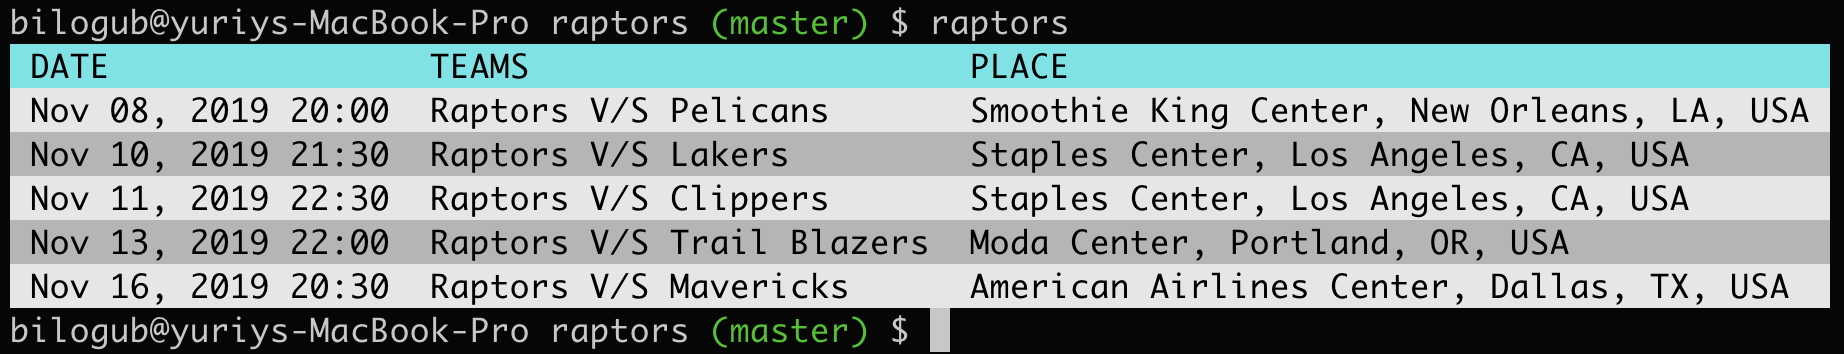
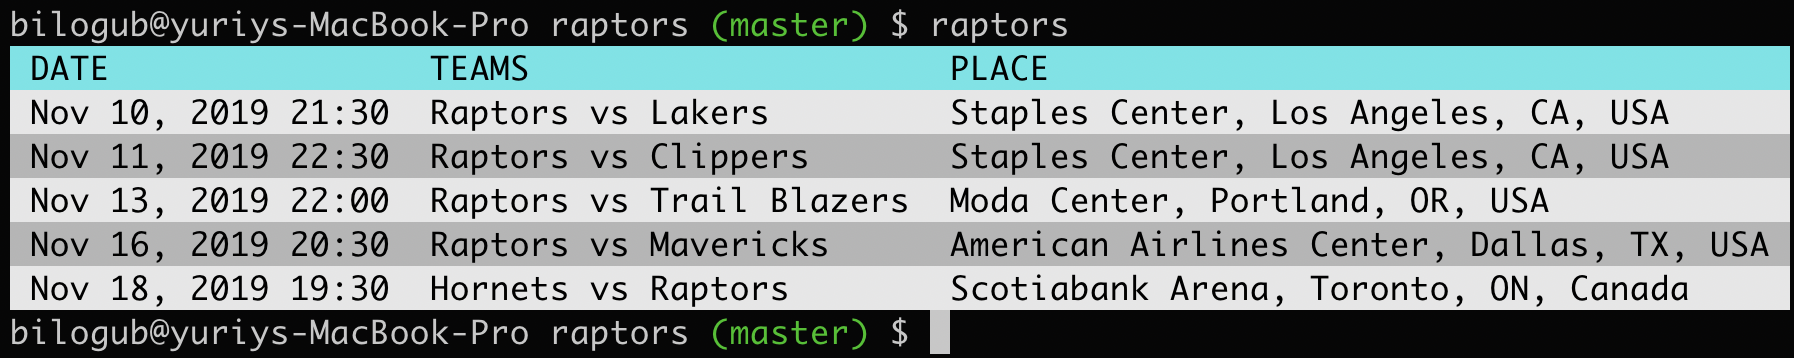
typos

Changed region(s): [[0.0, 0.0311, 0.9989, 0.9944]]

diff --git a/raptors.go b/raptors.go
@@ -73,7 +73,7 @@ func processResponse(body []byte) [][]interface{} {
 			}
 			starts := fmt.Sprintf("%s %s:%s",
 				startDate.Format("Nov 02, 2006"), startTime[0:2], startTime[2:4])
-			teams := fmt.Sprintf("%s V/S %s", hommies, playingWith)
+			teams := fmt.Sprintf("%s vs %s", hommies, playingWith)
 			place := fmt.Sprintf("%s, %s, %s, %s", game.Arena, game.City, game.State, game.Country)
 			output = append(output, []interface{}{starts, teams, place})
 		}

diff --git a/README.md b/README.md
@@ -8,6 +8,6 @@ Shows next 5 games for Raptors NBA team only.
 Installation:
 1. Build it with Golang
 2. Move to /url/local/bin
-3. Launch it terminal `raptors`
+3. Launch it in terminal `raptors`
 4. Watch the games
 
